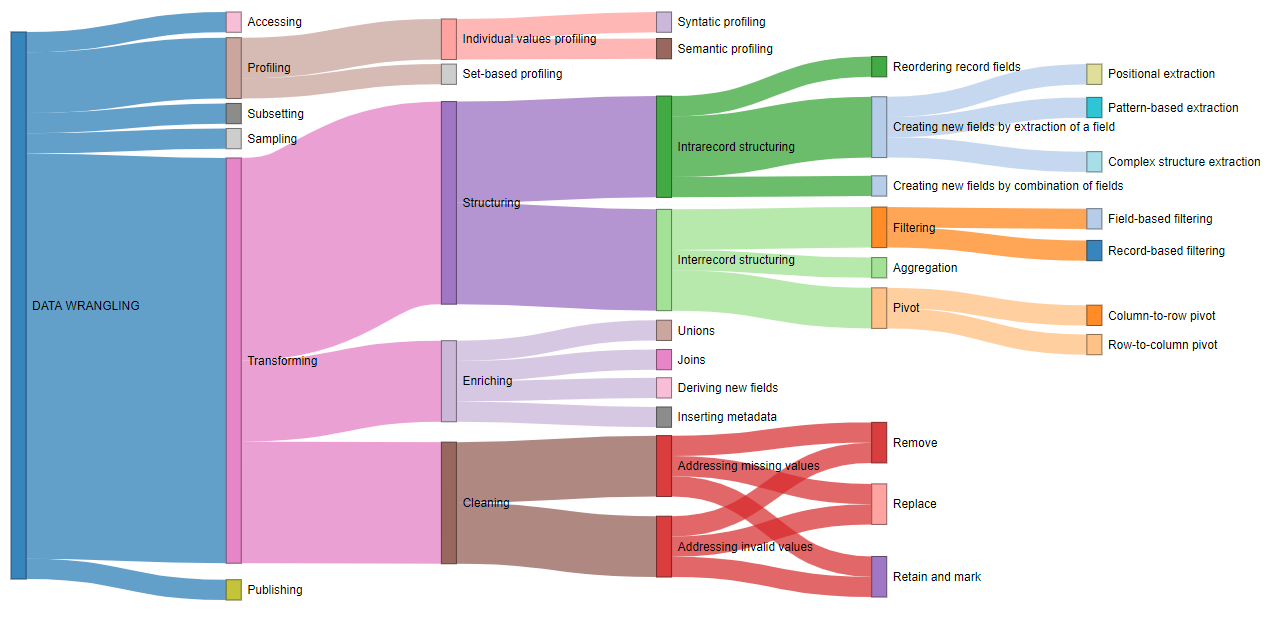
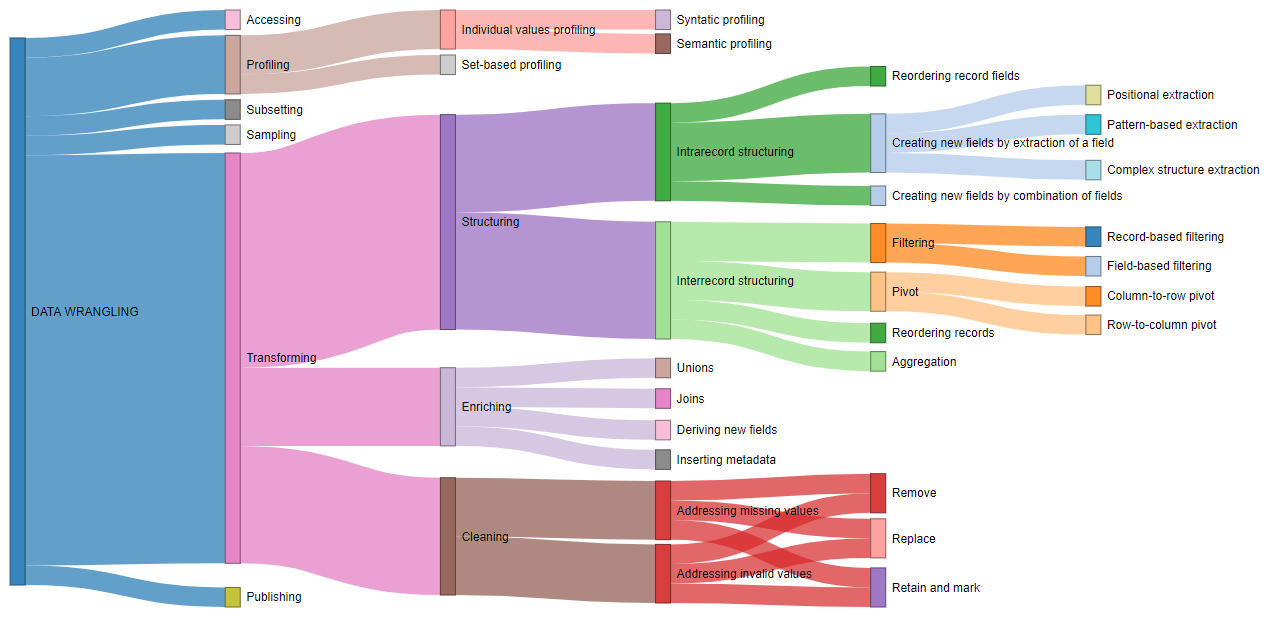
Add the operation 'Reordering records' in all pertinent files. Modify 'Syntatic profiling' comment on the table

Changed region(s): [[0.0, 0.0, 1.0, 0.9854]]

diff --git a/html/data_wrangling.html b/html/data_wrangling.html
@@ -10,11 +10,11 @@
 </head>
 <body style="background-color: white;">
 <div id="htmlwidget_container">
-<div id="htmlwidget-56b247ce9d3facf30740" class="sankeyNetwork html-widget" style="width:960px;height:500px;">
+<div id="htmlwidget-90b5baa8f6139afb1e32" class="sankeyNetwork html-widget" style="width:960px;height:500px;">
 
 </div>
 </div>
-<script type="application/json" data-for="htmlwidget-56b247ce9d3facf30740">{"x":{"links":{"source":[0,0,0,0,0,0,1,1,1,2,2,3,3,4,4,4,5,5,5,6,6,6,7,7,7,8,8,9,9,10,10,10,10,11,11,12,12,13,13,13],"target":[14,12,15,16,13,17,18,19,20,21,22,23,24,25,1,26,2,27,3,28,29,30,28,29,30,31,32,4,5,33,34,35,36,6,7,8,37,9,10,11],"value":[1,3,1,1,20,1,1,1,1,1,1,1,1,1,3,1,2,1,2,1,1,1,1,1,1,1,1,5,5,1,1,1,1,3,3,2,1,10,4,6],"group":["DATA WRANGLING","DATA WRANGLING","DATA WRANGLING","DATA WRANGLING","DATA WRANGLING","DATA WRANGLING","Creating new fields by extraction of a field","Creating new fields by extraction of a field","Creating new fields by extraction of a field","Filtering","Filtering","Pivot","Pivot","Intrarecord structuring","Intrarecord structuring","Intrarecord structuring","Interrecord structuring","Interrecord structuring","Interrecord structuring","Addressing missing values","Addressing missing values","Addressing missing values","Addressing invalid values","Addressing invalid values","Addressing invalid values","Individual values profiling","Individual values profiling","Structuring ","Structuring ","Enriching","Enriching","Enriching","Enriching","Cleaning","Cleaning","Profiling","Profiling","Transforming","Transforming","Transforming"]},"nodes":{"name":["DATA WRANGLING","Creating new fields by extraction of a field","Filtering","Pivot","Intrarecord structuring","Interrecord structuring","Addressing missing values","Addressing invalid values","Individual values profiling","Structuring ","Enriching","Cleaning","Profiling","Transforming","Accessing","Subsetting","Sampling","Publishing","Positional extraction","Pattern-based extraction","Complex structure extraction","Record-based filtering","Field-based filtering","Column-to-row pivot","Row-to-column pivot","Reordering record fields","Creating new fields by combination of fields","Aggregation","Remove","Replace","Retain and mark","Syntatic profiling","Semantic profiling","Unions","Joins","Deriving new fields","Inserting metadata","Set-based profiling"],"group":["DATA WRANGLING","Creating new fields by extraction of a field","Filtering","Pivot","Intrarecord structuring","Interrecord structuring","Addressing missing values","Addressing invalid values","Individual values profiling","Structuring ","Enriching","Cleaning","Profiling","Transforming","Accessing","Subsetting","Sampling","Publishing","Positional extraction","Pattern-based extraction","Complex structure extraction","Record-based filtering","Field-based filtering","Column-to-row pivot","Row-to-column pivot","Reordering record fields","Creating new fields by combination of fields","Aggregation","Remove","Replace","Retain and mark","Syntatic profiling","Semantic profiling","Unions","Joins","Deriving new fields","Inserting metadata","Set-based profiling"],"obs":["The range of tasks involved in preparing your data for analysis.","Act of creating a new field on the dataset by extracting data already present in another field.","Act of removing records or fields of the dataset based on a defined creteria.","Act of shifting records into fields and vice versa.","Act of manipulating individual records or fields.","Act of manipulating multiple records and fields at once.","Act of solving issues related to missing records.","Act of solving issues related to invalid records.","Act of determining the validity of individual record fields.","Act of changing the form or schema of the data.","Act of adding fundamentally new values to the dataset.","Act of fixing irregularities in the dataset.","Task of examining data to make sure each transformation is performed as expected.","Task of manipulating structure, granularity, accuracy, temporality, and scope of data","Task of reading and loading data into the wrangling environment.","Task of splitting heterogeneous data into homogeneous subsets to be wrangled separetely.","Task of sampling massive datasets into representative samples to be wrangled in feasible time frames.","Task of publishing data wrangling results for downstream consuption.","Technique used to extract substrings of a field by specifying the starting and ending positions that correspond to the desired substring.","Technique used to extract substrings of a field by specifying the rules that describe the sequence of characters of the desired substring.","Technique used to extract individual elements from semi-structured datasets, such as XML and JSON.","Technique used to remove records based on their values.","Technique used to remove fields.","Technique used to shift multiple fields of a single record into a single field with multiple records.","Technique used to shift a single field with multiple records into multiple fields of a single record.","Act of changing the order of fields in the dataset.","Act of creating a new field on the dataset by combining data already present in other fields.","Act of combining multiple records of the dataset into a summary value by applying a defined operation.","Act of removing an innacurate record from a dataset.","Act of replacing an innacurate record from a dataset for a value deemed appropriate.","Act of keeping an innacurate record on a dataset, but flaging it as innacurate.","Profiling for syntactic constraints involves simply checking whether data values are in (or not in) the set of permissible values.","Profiling for semantic constraints involves checking whether data value meanings are in (or not in) the set of meaningful values.","Act of appending the number of records in a dataset by combining it with another compatible dataset.","Act of appending the number of fields and records in a dataset by combining it with a related dataset.","Act of creating a fundamentally new field on the dataset.","Act of adding metadata into the dataset.","Act of determining the distribution of values for: 1) a given field across multiple records; 2) multiple fields across multiple records."]},"options":{"NodeID":"name","NodeGroup":"name","LinkGroup":"source","colourScale":"d3.scaleOrdinal(d3.schemeCategory20);","fontSize":12,"fontFamily":"Helvetica","nodeWidth":15,"nodePadding":10,"units":"","margin":{"top":null,"right":null,"bottom":null,"left":null},"iterations":32,"sinksRight":false}},"evals":[],"jsHooks":{"render":[{"code":"\n  function(el, x) {\n  d3.selectAll(\".node\").select(\"title foreignObject body pre\")\n  .text(function(d) { return d.obs; });\n  }\n  ","data":null}]}}</script>
-<script type="application/htmlwidget-sizing" data-for="htmlwidget-56b247ce9d3facf30740">{"viewer":{"width":450,"height":350,"padding":10,"fill":true},"browser":{"width":960,"height":500,"padding":10,"fill":true}}</script>
+<script type="application/json" data-for="htmlwidget-90b5baa8f6139afb1e32">{"x":{"links":{"source":[0,0,0,0,0,0,1,1,1,2,2,3,3,4,4,4,5,5,5,5,6,6,6,7,7,7,8,8,9,9,10,10,10,10,11,11,12,12,13,13,13],"target":[14,12,15,16,13,17,18,19,20,21,22,23,24,25,1,26,2,27,3,28,29,30,31,29,30,31,32,33,4,5,34,35,36,37,6,7,8,38,9,10,11],"value":[1,3,1,1,21,1,1,1,1,1,1,1,1,1,3,1,2,1,2,1,1,1,1,1,1,1,1,1,5,6,1,1,1,1,3,3,2,1,11,4,6],"group":["DATA WRANGLING","DATA WRANGLING","DATA WRANGLING","DATA WRANGLING","DATA WRANGLING","DATA WRANGLING","Creating new fields by extraction of a field","Creating new fields by extraction of a field","Creating new fields by extraction of a field","Filtering","Filtering","Pivot","Pivot","Intrarecord structuring","Intrarecord structuring","Intrarecord structuring","Interrecord structuring","Interrecord structuring","Interrecord structuring","Interrecord structuring","Addressing missing values","Addressing missing values","Addressing missing values","Addressing invalid values","Addressing invalid values","Addressing invalid values","Individual values profiling","Individual values profiling","Structuring ","Structuring ","Enriching","Enriching","Enriching","Enriching","Cleaning","Cleaning","Profiling","Profiling","Transforming","Transforming","Transforming"]},"nodes":{"name":["DATA WRANGLING","Creating new fields by extraction of a field","Filtering","Pivot","Intrarecord structuring","Interrecord structuring","Addressing missing values","Addressing invalid values","Individual values profiling","Structuring ","Enriching","Cleaning","Profiling","Transforming","Accessing","Subsetting","Sampling","Publishing","Positional extraction","Pattern-based extraction","Complex structure extraction","Record-based filtering","Field-based filtering","Column-to-row pivot","Row-to-column pivot","Reordering record fields","Creating new fields by combination of fields","Aggregation","Reordering records","Remove","Replace","Retain and mark","Syntatic profiling","Semantic profiling","Unions","Joins","Deriving new fields","Inserting metadata","Set-based profiling"],"group":["DATA WRANGLING","Creating new fields by extraction of a field","Filtering","Pivot","Intrarecord structuring","Interrecord structuring","Addressing missing values","Addressing invalid values","Individual values profiling","Structuring ","Enriching","Cleaning","Profiling","Transforming","Accessing","Subsetting","Sampling","Publishing","Positional extraction","Pattern-based extraction","Complex structure extraction","Record-based filtering","Field-based filtering","Column-to-row pivot","Row-to-column pivot","Reordering record fields","Creating new fields by combination of fields","Aggregation","Reordering records","Remove","Replace","Retain and mark","Syntatic profiling","Semantic profiling","Unions","Joins","Deriving new fields","Inserting metadata","Set-based profiling"],"obs":["The range of tasks involved in preparing your data for analysis.","Act of creating a new field on the dataset by extracting data already present in another field.","Act of removing records or fields of the dataset based on a defined creteria.","Act of shifting records into fields and vice versa.","Act of manipulating individual records or fields.","Act of manipulating multiple records and fields at once.","Act of solving issues related to missing records.","Act of solving issues related to invalid records.","Act of determining the validity of individual record fields.","Act of changing the form or schema of the data.","Act of adding fundamentally new values to the dataset.","Act of fixing irregularities in the dataset.","Task of examining data to make sure each transformation is performed as expected.","Task of manipulating structure, granularity, accuracy, temporality, and scope of data","Task of reading and loading data into the wrangling environment.","Task of splitting heterogeneous data into homogeneous subsets to be wrangled separetely.","Task of sampling massive datasets into representative samples to be wrangled in feasible time frames.","Task of publishing data wrangling results for downstream consuption.","Technique used to extract substrings of a field by specifying the starting and ending positions that correspond to the desired substring.","Technique used to extract substrings of a field by specifying the rules that describe the sequence of characters of the desired substring.","Technique used to extract individual elements from semi-structured datasets, such as XML and JSON.","Technique used to remove records based on their values.","Technique used to remove fields.","Technique used to shift multiple fields of a single record into a single field with multiple records.","Technique used to shift a single field with multiple records into multiple fields of a single record.","Act of changing the order of fields in the dataset.","Act of creating a new field on the dataset by combining data already present in other fields.","Act of combining multiple records of the dataset into a summary value by applying a defined operation.","Act of changing the order of records in the dataset.","Act of removing an innacurate record from a dataset.","Act of replacing an innacurate record from a dataset for a value deemed appropriate.","Act of keeping an innacurate record on a dataset, but flaging it as innacurate.","Profiling for syntactic constraints involves simply checking whether data values are in (or not in) the set of permissible values.","Profiling for semantic constraints involves checking whether data value meanings are in (or not in) the set of meaningful values.","Act of appending the number of records in a dataset by combining it with another compatible dataset.","Act of appending the number of fields and records in a dataset by combining it with a related dataset.","Act of creating a fundamentally new field on the dataset.","Act of adding metadata into the dataset.","Act of determining the distribution of values for: 1) a given field across multiple records; 2) multiple fields across multiple records."]},"options":{"NodeID":"name","NodeGroup":"name","LinkGroup":"source","colourScale":"d3.scaleOrdinal(d3.schemeCategory20);","fontSize":12,"fontFamily":"Helvetica","nodeWidth":15,"nodePadding":10,"units":"","margin":{"top":null,"right":null,"bottom":null,"left":null},"iterations":32,"sinksRight":false}},"evals":[],"jsHooks":{"render":[{"code":"\n  function(el, x) {\n  d3.selectAll(\".node\").select(\"title foreignObject body pre\")\n  .text(function(d) { return d.obs; });\n  }\n  ","data":null}]}}</script>
+<script type="application/htmlwidget-sizing" data-for="htmlwidget-90b5baa8f6139afb1e32">{"viewer":{"width":450,"height":350,"padding":10,"fill":true},"browser":{"width":960,"height":500,"padding":10,"fill":true}}</script>
 </body>
 </html>

diff --git a/README.md b/README.md
@@ -115,7 +115,7 @@ Set-based profiling | Core type | Act of determining the distribution of values 
 Structuring  | Core type | Act of changing the form or schema of the data. | 
 Enriching | Core type | Act of adding fundamentally new values to the dataset. | Enriching transformations create new fields or records using new data - information that was not previously present in the dataset. This information can be a related dataset, or formulas use to calculate fields.
 Cleaning | Core type | Act of fixing irregularities in the dataset. | 
-Syntatic profiling | Subtype | Profiling for syntactic constraints involves simply checking whether data values are in (or not in) the set of permissible values. | Syntax refers to constraints on the literal values that are valid in a field (i.e., formatting).
+Syntatic profiling | Subtype | Profiling for syntactic constraints involves simply checking whether data values are in (or not in) the set of permissible values. | Syntax refers to constraints on the literal values that are valid in a field (i.e., formatting or data types).
 Semantic profiling | Subtype | Profiling for semantic constraints involves checking whether data value meanings are in (or not in) the set of meaningful values. | Semantic type constraints correspond to the meaning or interpretation of field values (i.e., context): values are valid if their interpretations satisfy the constraints.
 Intrarecord structuring | Subtype | Act of manipulating individual records or fields. | 
 Interrecord structuring | Subtype | Act of manipulating multiple records and fields at once. | 
@@ -131,6 +131,7 @@ Creating new fields by combination of fields | Operation | Act of creating a new
 Filtering | Operation | Act of removing records or fields of the dataset based on a defined creteria. | 
 Aggregation | Operation | Act of combining multiple records of the dataset into a summary value by applying a defined operation. | Aggregations are paramount to change data granularity. In aggregations, each input record maps to one and only one output record, whereas each output record combines one or more input records.
 Pivot | Operation | Act of shifting records into fields and vice versa. | 
+Reordering records | Operation | Act of changing the order of records in the dataset. | 
 Remove | Operation | Act of removing an innacurate record from a dataset. | 
 Replace | Operation | Act of replacing an innacurate record from a dataset for a value deemed appropriate. | Also known as "imputation".
 Retain and mark | Operation | Act of keeping an innacurate record on a dataset, but flaging it as innacurate. | 
